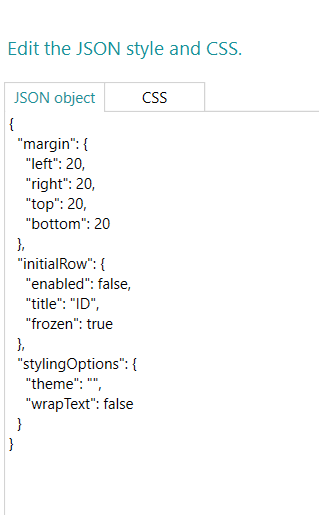
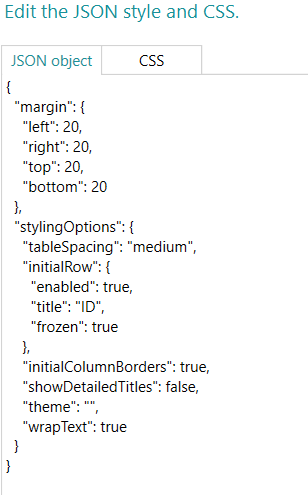
User Guide Updates

Changed region(s): [[0.0, 0.0, 0.7597, 1.0], [0.6136, 0.1515, 0.6429, 0.2121], [0.3799, 0.4242, 0.4091, 0.4545]]

diff --git a/Examples/Tabulator/UserGuide.md b/Examples/Tabulator/UserGuide.md
@@ -16,7 +16,7 @@
     - [Column Properties](#column-properties)
 4. [Styling Options](#styling-options)
     - [Editing Styles](#editing-styles)
-    - [Available Styling Options](#available-styling-options)
+    - [Available Theme Options](#available-theme-options)
 5. [Advanced Settings](#advanced-settings)
     - [Row Grouping](#row-grouping)
     - [Navigation](#navigation)
@@ -133,7 +133,7 @@ Supports custom date formatting using patterns:
 > These formatting options converts an ISO Date String to a desired format.
 
 ### Numeric Formatting
-`stars`: Converts numbers 0-5 to star ratings.
+`star`: Converts numbers 0-5 to star ratings.
 
 ### Other Formatting
 `tickCross`: Converts content to either a tick if the value is truthy or a cross if the value is falsy.
@@ -144,12 +144,29 @@ Supports custom date formatting using patterns:
 
 ## Styling Options
 ### Editing Styles
-1. Navigating to `Edit Style` in the settings panel will pop up with a JSON configuration interface.
-2. To add an initial row ID column, set `enabled` to `true` inside the `initialRow` object.
-    - Setting this to false will disable the initial row ID column.
-    - This initial column will be disabled by default.
-3. To change the table's theme, input an available theme under `stylingOptions`.
-4. For all text to automatically wrap, set `wrapText` to `true`.
+Navigating to `Edit Style` in the settings panel opens a JSON configuration interface.
+
+1. **Enable Initial Row ID Column**\
+Set `enabled` to `true` inside the `initialRow` object to add an initial row ID column.
+    - Default: `false` (the column is disabled)
+
+2. **Change Table Theme**\
+Set the `theme` property inside `stylingOptions` to one of the [available themes](#available-theme-options).
+
+3. **Enable Text Wrapping**\
+Set `wrapText` to `true` to automatically wrap all text instead of truncating it.
+
+4. **Adjust Table Padding**\
+Set `tableSpacing` to `"small"`, `"medium"` or `"large"` to adjust the table's padding size.
+
+5. **Initial Column Borders**\
+Set `initialColumnBorders` to `true` to add coloured borders at the start of each row.
+
+6. **Show Detailed Titles**\
+Set `showDetailedTitles` to `true` to display additional information in column group titles.
+
+> **Note:** There is a **CSS** tab at the top of the **Edit Style** interface where you can manually customise CSS variables.
+> Ensure the `theme` option is set to `""` (blank) to utilise custom CSS variables.
 
 ![Edit style interface](./Images/jsonInterface.PNG)
 
@@ -159,13 +176,13 @@ Supports custom date formatting using patterns:
 ##### Initial Row ID Enabled
 ![Edit style menu interface image](./Images/initialRowIdEnabled.PNG)
 
-### Available Styling Options
+### Available Theme Options
 `"Modern"`: Contemporary design.\
 `"Midnight"`: Dark mode interface.\
-`"Simple"`: Minimalist appearance.\
-Default: Grey theme
+`"Basic"`: Minimalist appearance.\
+Default: Default modern appearance.
 
-> Default is applied when the theme is blank or invalid.
+> Default is applied when the theme is `""` (blank) or invalid.
 
 [Back to Table of Contents](#table-of-contents)
 
